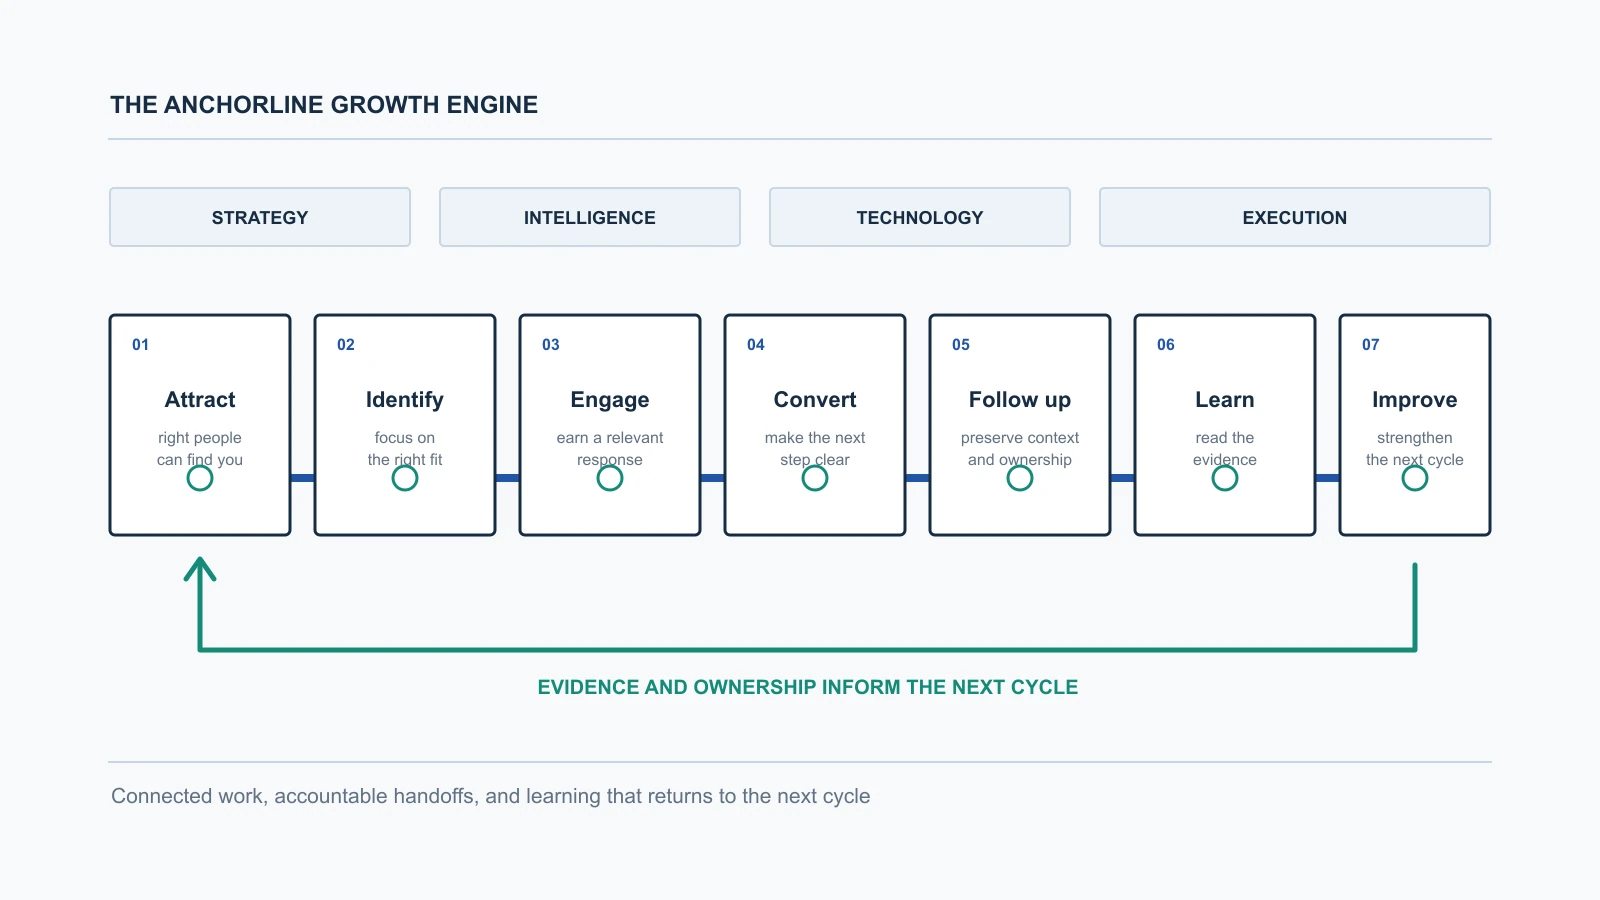
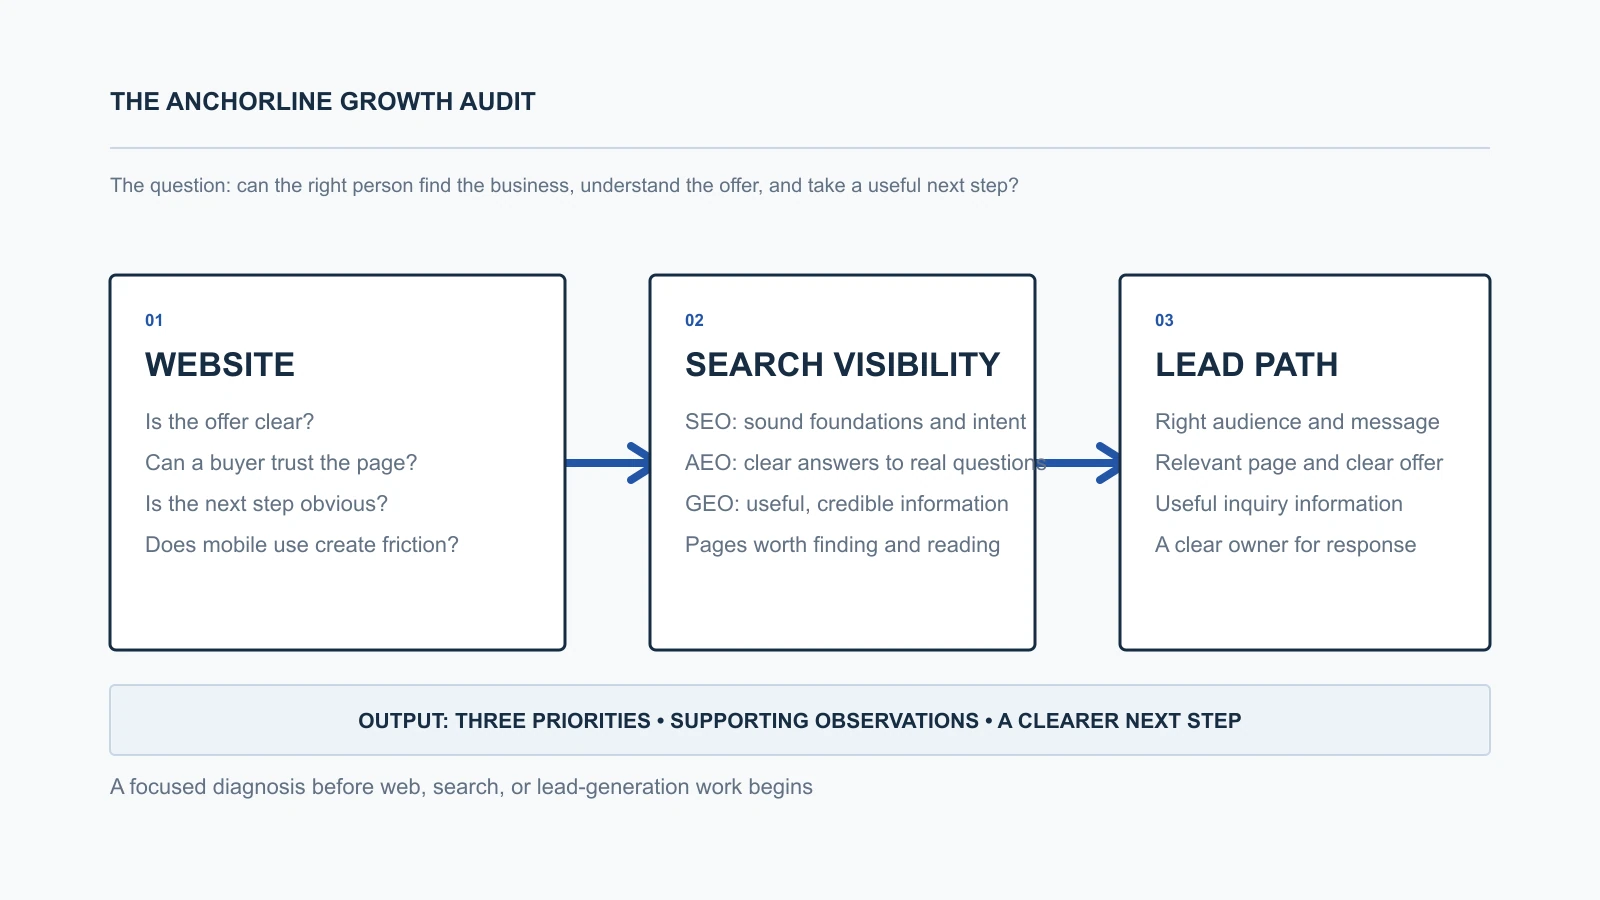
Refocus Growth Audit insight on web and lead generation

diff --git a/src/content/insights/growth-audit-website-search-lead-generation.md b/src/content/insights/growth-audit-website-search-lead-generation.md
@@ -1,0 +1,66 @@
+---
+title: "A Growth Audit Starts With the Website"
+seoTitle: "Growth Audit: Website, SEO, AEO, GEO & Lead Generation"
+ogTitle: "A Growth Audit Starts With the Website"
+description: "A focused Growth Audit looks at the website, search visibility, and lead path before recommending web development, SEO, AEO, GEO, or lead-generation work."
+publishDate: 2026-09-24
+author: "Kris McFadden"
+category: "Growth Audit"
+featured: true
+image: "/insights/what-anchorline-systems-builds.webp"
+imageAlt: "Diagram showing a Growth Audit examining the website, search visibility, and lead path."
+imageCredit: "Original Anchorline systems illustration."
+---
+
+Most organizations do not need another list of marketing ideas. They need to know where the path from attention to a real conversation is breaking down.
+
+That is the purpose of an Anchorline [Growth Audit](/growth-audit/). It is a focused review of the website, search visibility, and lead path before we recommend work.
+
+Our current focus is intentionally narrow: web development, SEO, AEO, GEO, and lead generation. Those areas meet at a practical question: can the right person find the business, understand the offer, and take a useful next step?
+
+## Start with the website
+
+A website is more than a design project. It has to explain what the organization does, for whom, and why a visitor should trust it. It also needs to make the next action obvious.
+
+The audit examines the pages a prospective buyer is likely to see first. We look for unclear positioning, thin service explanations, weak calls to action, confusing navigation, credibility gaps, and unnecessary friction in the inquiry path. We also consider the foundations that make a site usable: mobile behavior, performance, accessibility, and how pages are organized.
+
+The point is not to prescribe a redesign because a site looks dated. Sometimes a focused page, a clearer offer, or a repaired conversion path matters more than rebuilding everything.
+
+## Then examine how people find it
+
+Search visibility is not one tactic. It is the work of making a useful page understandable to people and to the systems that surface information.
+
+SEO addresses how a website is structured and explained for traditional search. That can include technical foundations, page purpose, internal links, topic coverage, and the language prospective buyers actually use.
+
+AEO and GEO describe related questions in a changing search environment. Can a page answer a specific question clearly? Does it provide enough context and credible information to be useful when answer engines or generative systems assemble a response? They are not separate buttons to turn on, and no one can promise a placement or citation. They are reasons to make the underlying information more precise.
+
+Our [SEO, AEO, and GEO guide](/insights/seo-aeo-and-geo-what-they-are-and-why-they-need-to-work-together/) explains the distinction in more detail. In an audit, we use that lens to find pages that need stronger information, not to manufacture a larger content plan than the business can sustain.
+
+## Follow the path to a qualified conversation
+
+Visibility only matters when it leads somewhere useful.
+
+For some organizations, the next step is an inbound inquiry through the website. For others, it is a targeted outreach effort supported by a relevant landing page, a clear offer, and a response process that does not lose context. In either case, the message, the page, and the follow-up should agree.
+
+The audit looks at the handoff between audience, message, page, and response. Are you trying to reach the right type of buyer? Does the outreach or search result set an expectation the website actually meets? Does the form ask for the information needed to respond well? Is there a clear owner for the next conversation?
+
+Lead generation is not the largest possible list or the most activity. It is a repeatable way to begin relevant conversations with people who may have a reason to care.
+
+## What you receive
+
+The Growth Audit is no-cost and qualification-based. It produces:
+
+- three prioritized opportunities;
+- supporting observations from the current website and lead path;
+- a recommended starting point; and
+- a practical next step.
+
+The recommendation may be a website improvement, search foundation work, clearer answer-ready pages, a focused lead-generation path, or a request for more evidence before a decision is made. The work follows the constraint. It is not a package assembled before the review begins.
+
+## What the audit is not
+
+It is not a comprehensive keyword study, a full marketing strategy, an implementation engagement, or a promise of rankings, AI citations, traffic, leads, meetings, sales, revenue, or return on investment.
+
+It is a way to decide whether the website, search visibility, and lead path are ready for focused work. If there is a strong fit, we will show you what we would build next. If not, you will still have a clearer view of what deserves attention first.
+
+[Request Your Growth Audit](/growth-audit/) when a focused diagnosis would help you decide where to begin.

diff --git a/docs/ANCHORLINE-LINKEDIN-SERVICE-OFFERINGS-2026-09-24.md b/docs/ANCHORLINE-LINKEDIN-SERVICE-OFFERINGS-2026-09-24.md
@@ -1,50 +1,42 @@
-# Anchorline LinkedIn package - What Anchorline Systems Builds
+# Anchorline LinkedIn package - A Growth Audit Starts With the Website
 
-Use these manually after the article is live. Replace `[article link]` with `https://anchorlineai.com/insights/what-anchorline-systems-builds/`. Do not add performance claims, tag unrelated people or vendors, or present the article as a client case study.
+Use these manually after the article is live. Replace `[article link]` with `https://anchorlineai.com/insights/growth-audit-website-search-lead-generation/`. Do not add performance claims, tag unrelated people or vendors, or present the article as a client case study.
 
 ## Anchorline Systems Page post
 
-Most growth problems are not isolated marketing problems. They happen between the pieces.
+Before we recommend a website redesign, SEO work, answer-ready content, or lead generation, we start with the path a prospective customer has to take.
 
-A website attracts attention but does not make the next step clear. Outreach starts a conversation the website does not continue. Leads enter a system without enough context. Follow-up depends on memory. Reporting counts activity but cannot show where opportunity lost momentum.
+Can the right person find the business? Does the website make the offer clear? Does a search result or outreach message lead to a relevant next step? Is there a real process for turning interest into a conversation?
 
-Anchorline Systems exists to connect that work.
+That is what the Anchorline Growth Audit examines.
 
-We build growth systems across strategy and positioning, buyer and market intelligence, websites and conversion, search visibility, media, demand generation, follow-up, AI, automation, and measurement.
-
-Not every organization needs every capability. We begin with the outcome, diagnose the constraint, and configure the right work around how the organization and its customers actually operate.
-
-Our primary entry point is the Growth Audit: three prioritized opportunities, supporting observations, a recommended Growth Engine configuration, and a practical next step.
-
-We build the systems that help good organizations grow.
+Our focus is deliberately specific: web development, SEO, AEO, GEO, and lead generation. The audit identifies three priorities, the observations behind them, and a practical place to begin. It is no-cost, qualification-based, and not a guarantee of results.
 
 [article link]
 
-#GrowthSystems #BusinessGrowth #AIForBusiness #SEO #RevenueOperations
+#WebDevelopment #SEO #AEO #GEO #LeadGeneration
 
 ## First comment for the Page post
 
-The article explains the seven-stage Growth Engine: Attract, Identify, Engage, Convert, Follow up, Learn, and Improve. The Growth Audit is no-cost and qualification-based. It is not a comprehensive strategy engagement or a guarantee of results.
+The article explains how the website, search visibility, and lead path fit together. The Growth Audit is no-cost and qualification-based. It is not a comprehensive strategy engagement or a guarantee of results.
 
 ## Kris personal-profile post
 
-I have spent a lot of time thinking about how to explain Anchorline without reducing it to one tool or channel.
+The fastest way to waste money on marketing is to choose the work before you understand the constraint.
 
-We build websites. We work across search visibility, buyer intelligence, acquisition systems, AI and automation, media, conversion paths, follow-up, analytics, and operating workflows.
+Some organizations need a better website. Some need stronger search foundations. Some need pages that answer buyer questions more clearly. Some create interest but have no reliable path from first contact to a qualified conversation.
 
-But those are capabilities inside a broader systems company.
+Those are different problems. They should not receive the same answer.
 
-The real work is finding where opportunity is losing momentum and connecting the pieces required to move it forward.
+Anchorline is focused on web development, SEO, AEO, GEO, and lead generation. The Growth Audit is where we look at the current website, visibility, and lead path before recommending a next step.
 
-The new article explains what Anchorline builds, how the seven-stage Growth Engine works, what capabilities may be involved, what we do not promise, and why we start with diagnosis rather than a predetermined package.
-
-If your website, marketing, sales, follow-up, and technology are all active but not truly working together, this is the problem we are built to address.
+The article explains what that review looks for and what it does not promise.
 
 [article link]
 
 ## Suggested featured-post order
 
-1. This cornerstone article
+1. This Growth Audit article
 2. Growth Audit explainer
 3. One high-value authority Insight
 4. A future proof asset, once verified and approved
